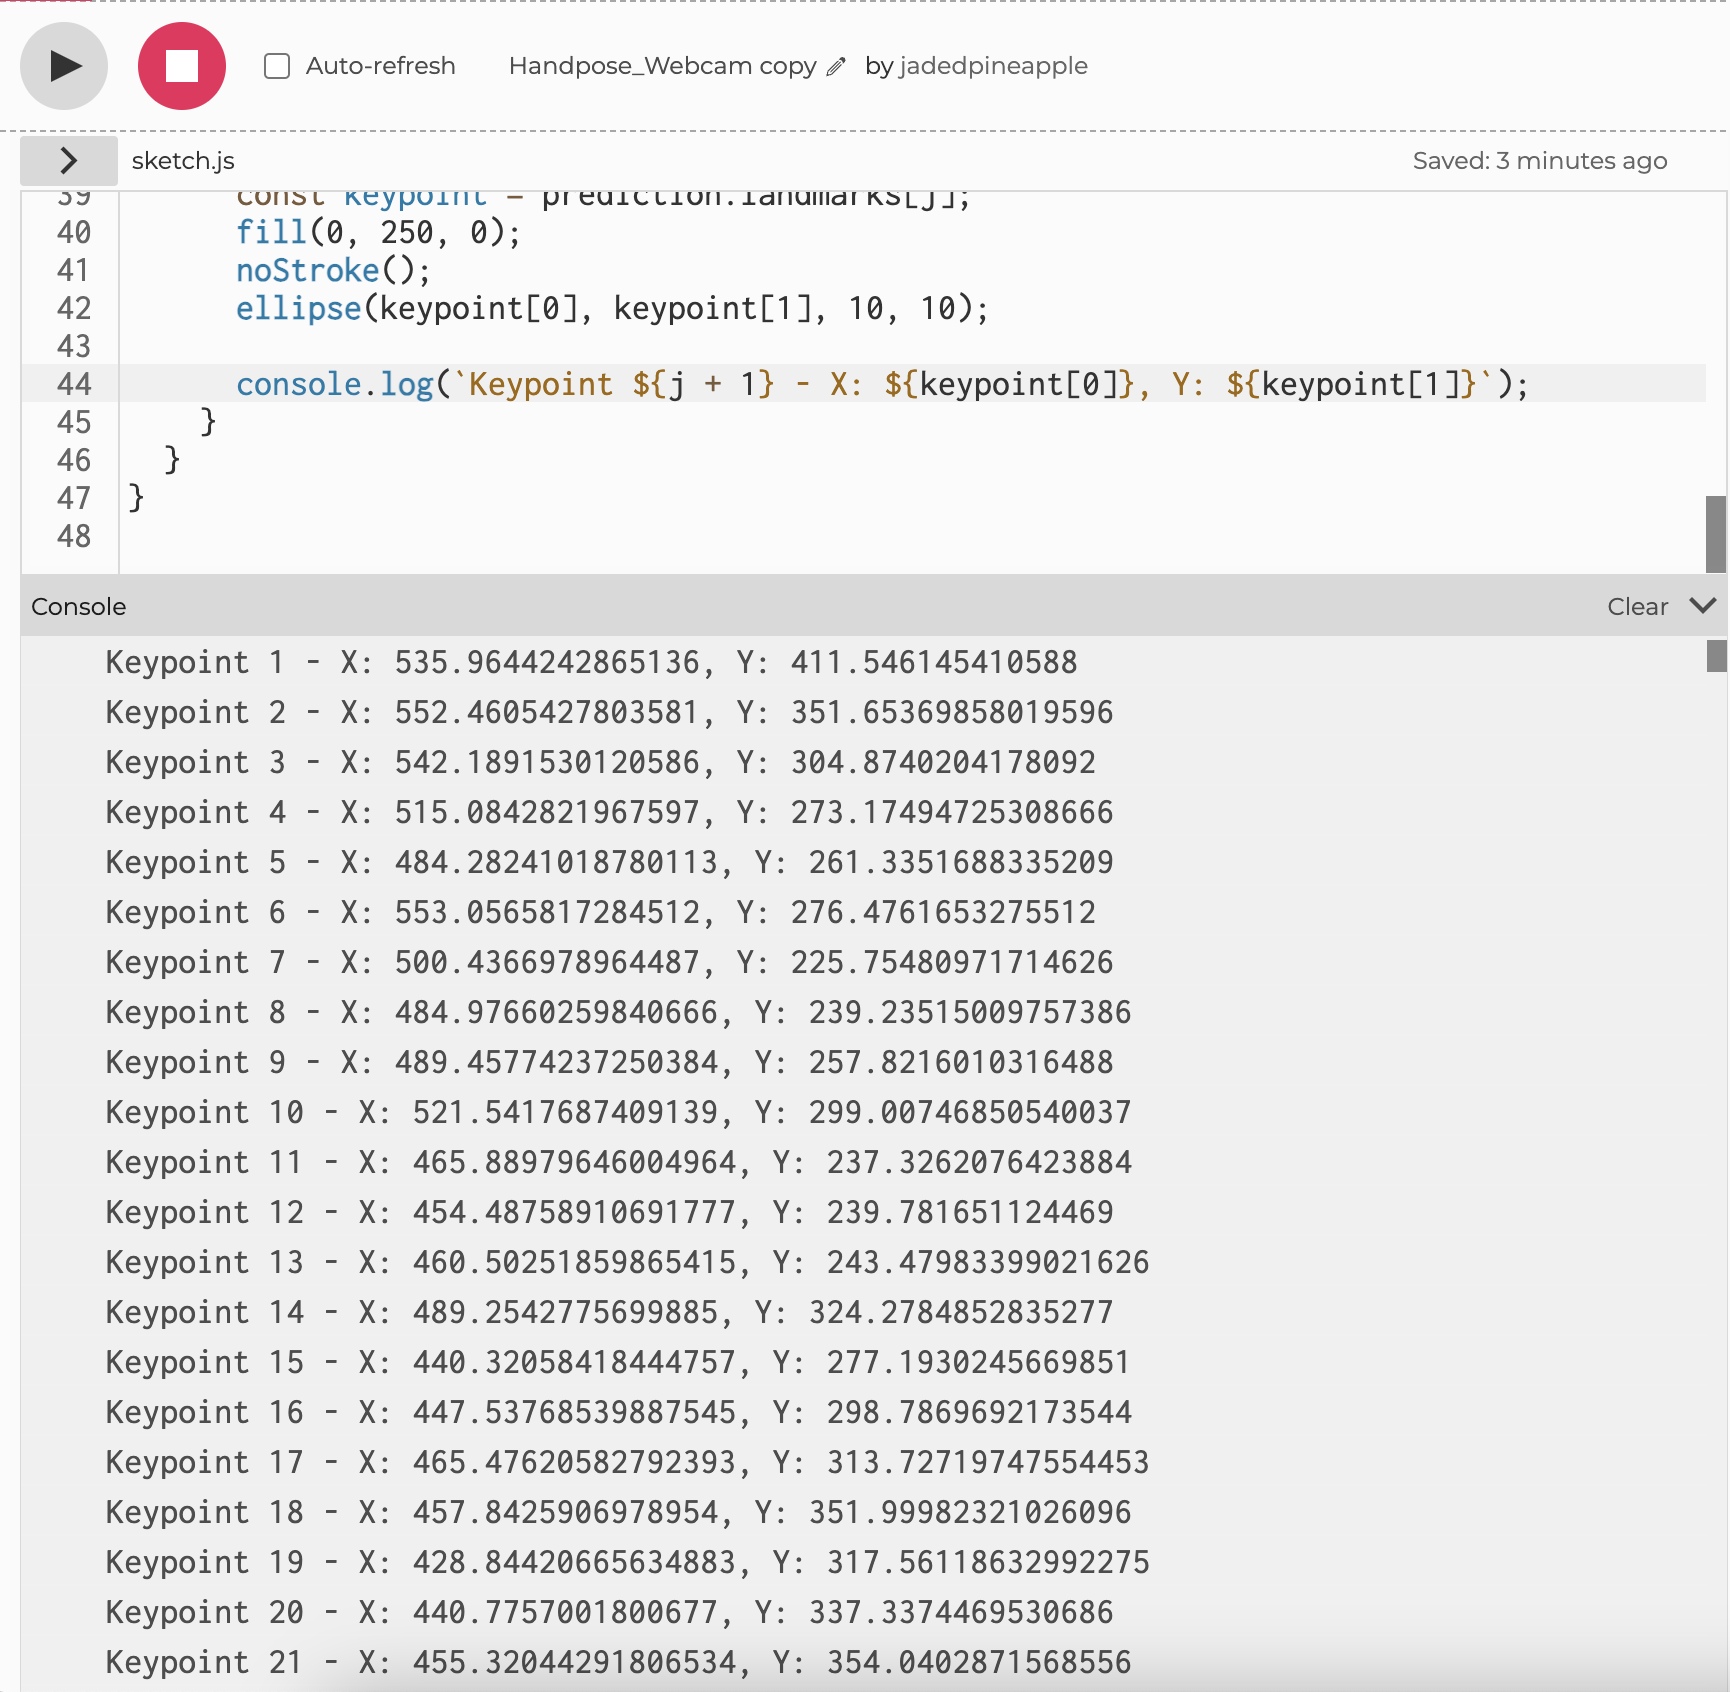
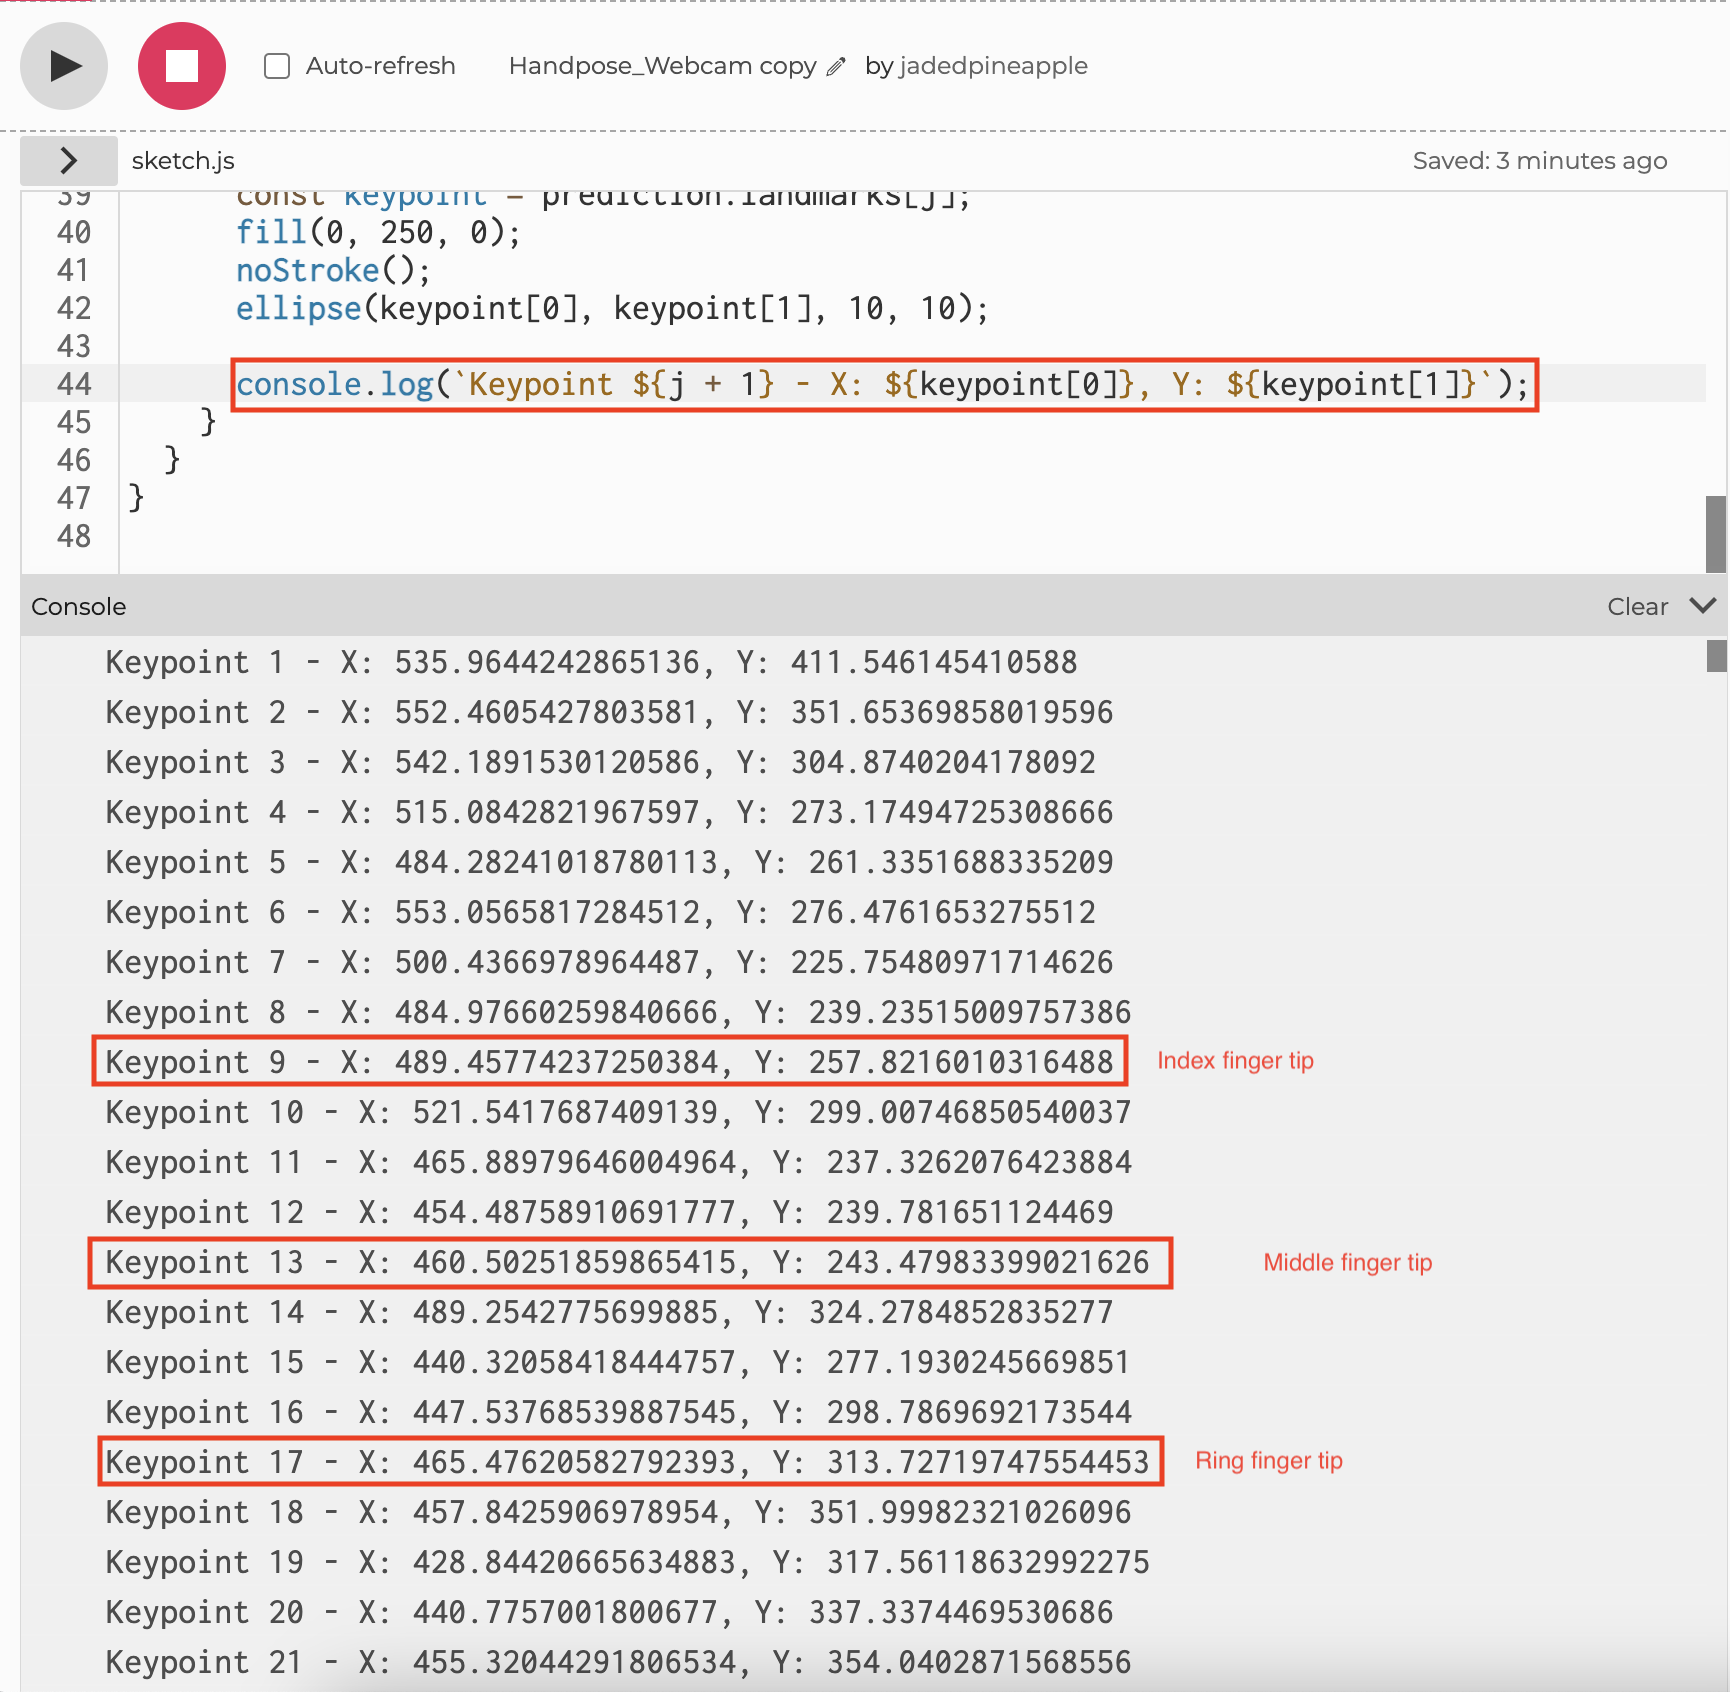
figured out how to track related fingers
added images and also descriptions, also pulled reference

diff --git a/Assignment/Week8/Interface proposal.html b/Assignment/Week8/Interface proposal.html
@@ -30,31 +30,20 @@
 
         <div class="row">
             <p>
-                Second, we need to figure out if we can recognize gestures. After brief research, this is often achieved by TensorFlow. The premeter of this assignment is p5.js and ml5.js. However, this should be maneuvered by training the machine to know specific hand gestures based on the position of the points. As we can see, there's always 21 points registered for one hand.
+                Second, we need to figure out if we can recognize gestures. After brief research, this is often achieved by TensorFlow. The premeter of this assignment is p5.js and ml5.js. However, this should be maneuvered by training the machine to know specific hand gestures based on the position of the points. As we can see, there's always 21 points registered for one hand. We can also check out each finger's data through annotation -> finger, marked in second picture.
             </p>
             <img src="pointLog.png">
+            <img src="AnnotationLog.png">
         </div>
 
         <div class="row">
             <p>
-                After this, to moniter what points we need exact locations in order to maneuver, we changed keypoints color in our code, and eventually we found out the keypoint data for the three fingers that we want to monitor: index fingertip (keypoint 9), middle fingertip (keypoint 13) and ring fingertip (keypoint 17)
+                Now, as we've found out the data we want the machine to learn and modify, I went ahead and followed this video tutorial instructions: 
             </p>
-            <img src="keypointLocation.png">
-        </div>
-        <div class="row">
-            <p>
-                Additionally, we want to add another hand also as the point tracker. After some research, I'm looking into MediaPipe on how it is done with both hands.
-            </p>
-            <iframe width="560" height="315" src="https://www.youtube.com/embed/BX8ibqq0MJU?si=LOeKAuPEZ6uhbqqT" title="YouTube video player" frameborder="0" allow="accelerometer; autoplay; clipboard-write; encrypted-media; gyroscope; picture-in-picture; web-share" allowfullscreen></iframe>
+            <iframe width="750" height="500" src="https://www.youtube.com/embed/A2yFBDBq9UY?si=zJX5khbttd1pqIjZ&amp;start=1880" title="YouTube video player" frameborder="0" allow="accelerometer; autoplay; clipboard-write; encrypted-media; gyroscope; picture-in-picture; web-share" allowfullscreen></iframe>
         </div>
 
         <h1>Steps & Challenges</h1>
-        <ul>
-            <li>1. We need to have both hands tracked and shown on the video</li>
-            <li>2. On top of that, we need to train the machine to recognize certain hand poses of number, six in total.</li>
-            <li>3. We need to somehow train the machine to draw co-related images that's related to specific hand pose. How cand we do this? Is it doable?</li>
-            <li>4. If we can achieve that, could it also work with both hands to draw a dice combo?</li>
-        </ul>
 
         <h1>PROGRESS</h1>
         <iframe src="https://editor.p5js.org/jadedpineapple/full/0vkR1_qmw" width="1350" height="900"></iframe>
